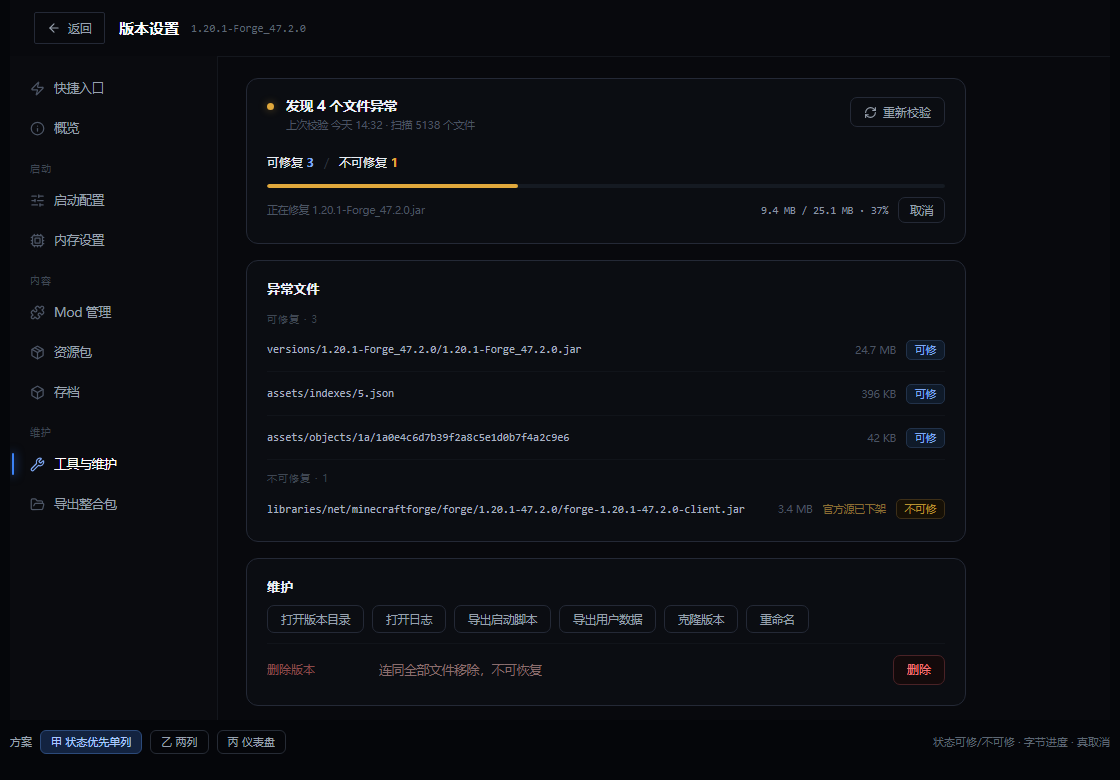
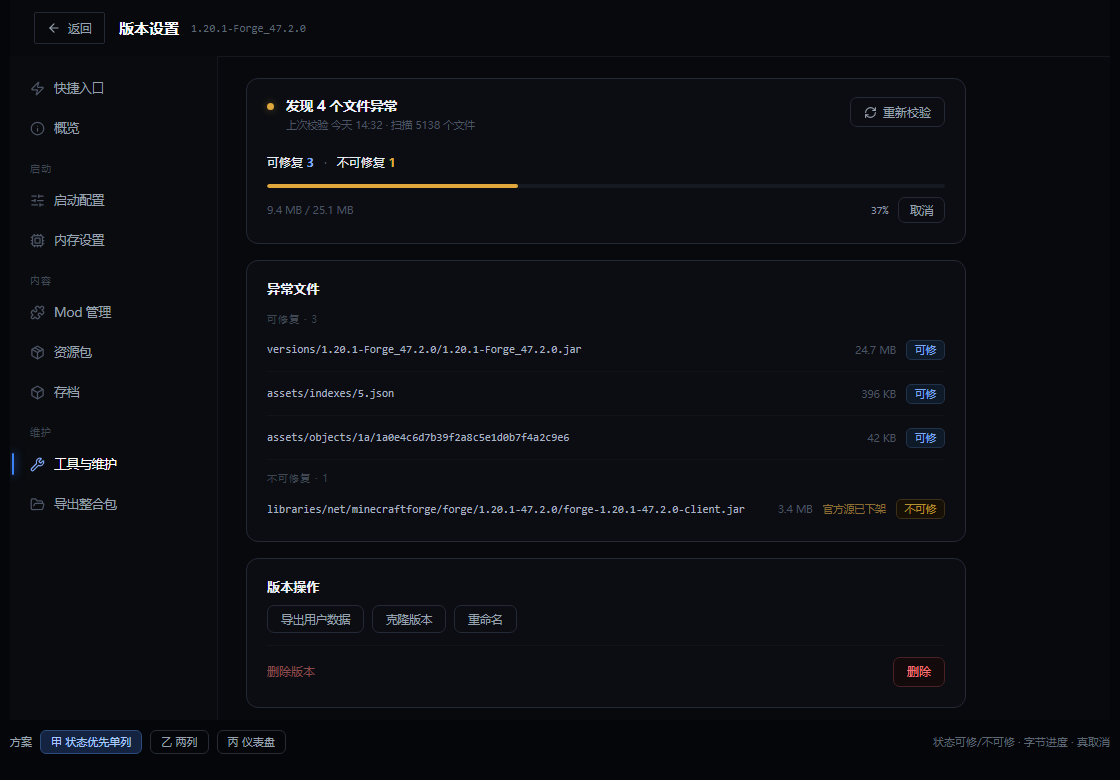
design(vs): 工具与维护页去重（移除与快捷入口重复的目录/日志/启动脚本入口、删冗余说明、表格去来源列）

diff --git a/design/vs-page/tools.html b/design/vs-page/tools.html
@@ -113,6 +113,9 @@ button{font:inherit;color:inherit;background:none;border:0;cursor:pointer;text-a
 .btn.danger{border-color:#4a2226;color:#f07474;background:#130a0b}
 .btn.danger:hover{background:#1d0f11;border-color:#5c2a30}
 .card{margin-bottom:16px}
+/* 乙案两列：卡片随列等高，边框底边对齐 */
+.pb .cols > div{display:flex;flex-direction:column}
+.pb .cols > div > .card{flex:1;margin-bottom:16px}
 .prog{margin:2px 0 10px}
 .pbar{height:4px;border-radius:2px;background:#151a22;overflow:hidden}
 .pbar i{display:block;height:100%;border-radius:2px;background:var(--accent);transition:width .2s}
@@ -206,14 +209,14 @@ button{font:inherit;color:inherit;background:none;border:0;cursor:pointer;text-a
     </div>
     <div class="pb-cap">
       <span class="val">可修复 <b style="color:#7fa9f5">3</b></span>
-      <span class="val" style="color:#2b323d">/</span>
+      <span class="val" style="color:#4b5462">·</span>
       <span class="val">不可修复 <b style="color:#e0a83c">1</b></span>
     </div>
     <div class="prog">
       <div class="pbar amber"><i style="width:37%"></i></div>
       <div class="prog-meta">
-        <span>正在修复 1.20.1-Forge_47.2.0.jar</span>
-        <span class="mono">9.4 MB / 25.1 MB · 37%</span>
+        <span>9.4 MB / 25.1 MB</span>
+        <span class="mono">37%</span>
         <button class="btn mini">取消</button>
       </div>
     </div>
@@ -230,22 +233,19 @@ button{font:inherit;color:inherit;background:none;border:0;cursor:pointer;text-a
   </div>
 
   <div class="card">
-    <div class="ch">维护</div>
-    <div class="pb-cap" style="flex-wrap:wrap;gap:8px;padding:6px 0 10px">
-      <button class="chip">打开版本目录</button>
-      <button class="chip">打开日志</button>
-      <button class="chip">导出启动脚本</button>
+    <div class="ch">版本操作</div>
+    <div class="pb-cap" style="flex-wrap:wrap;gap:8px;padding:6px 0 12px">
       <button class="chip">导出用户数据</button>
       <button class="chip">克隆版本</button>
       <button class="chip">重命名</button>
     </div>
-    <div class="row danger-row" style="border-top:1px solid #11141a"><span class="k">删除版本</span><span class="val">连同全部文件移除，不可恢复</span><button class="btn danger" style="margin-left:auto">删除</button></div>
+    <div class="row danger-row" style="border-top:1px solid #11141a"><span class="k" style="width:auto;flex:1">删除版本</span><button class="btn danger">删除</button></div>
   </div>
 
 </div></div>
 
 <div class="pn pb"><div class="scroll">
-  <div class="cols">
+  <div class="cols" style="align-items:stretch">
     <div>
       <div class="card">
         <div class="shd">
@@ -273,30 +273,24 @@ button{font:inherit;color:inherit;background:none;border:0;cursor:pointer;text-a
         </div>
       </div>
 
-      <div class="card">
-        <div class="ch">异常文件</div>
-        <div class="frow"><span class="fpath">1.20.1-Forge_47.2.0.jar</span><span class="fsize">24.7 MB</span><span class="badge">可修</span></div>
-        <div class="frow"><span class="fpath">assets/indexes/5.json</span><span class="fsize">396 KB</span><span class="badge">可修</span></div>
-        <div class="frow"><span class="fpath">assets/objects/1a/1a0e4c6d…</span><span class="fsize">42 KB</span><span class="badge">可修</span></div>
-        <div class="frow"><span class="fpath">forge-1.20.1-47.2.0-client.jar</span><span class="fsize">3.4 MB</span><span class="badge no">不可修</span></div>
-        <div class="fine" style="padding-bottom:8px">不可修：官方源已下架，需重新安装该版本。</div>
-      </div>
     </div>
 
     <div>
       <div class="card">
         <div class="ch">版本操作</div>
-        <div class="row"><span class="k">目录</span><span class="val mono">versions\1.20.1-Forge…</span><button class="link">打开</button></div>
-        <div class="row"><span class="k">日志</span><span class="val">最近 3 次</span><button class="link">打开</button></div>
-        <div class="row"><span class="k">启动脚本</span><span class="val">.bat</span><button class="link">导出</button></div>
         <div class="row"><span class="k">用户数据</span><span class="val">Mod、配置、存档</span><button class="link">导出</button></div>
-        <div class="row"><span class="k">副本</span><span class="val">克隆 / 重命名</span><button class="link">克隆</button></div>
-      </div>
-      <div class="card">
-        <div class="ch">危险操作</div>
-        <div class="row danger-row"><span class="k">删除版本</span><span class="val">不可恢复</span><button class="btn danger" style="margin-left:auto">删除</button></div>
+        <div class="row"><span class="k">副本</span><button class="link" style="margin-left:auto">克隆</button><button class="link" style="margin-left:4px">重命名</button></div>
+        <div class="row danger-row"><span class="k" style="width:auto;flex:1">删除版本</span><button class="btn danger">删除</button></div>
       </div>
     </div>
+  </div>
+
+  <div class="card" style="max-width:none">
+    <div class="ch">异常文件</div>
+    <div class="frow"><span class="fpath">1.20.1-Forge_47.2.0.jar</span><span class="fsize">24.7 MB</span><span class="badge">可修</span></div>
+    <div class="frow"><span class="fpath">assets/indexes/5.json</span><span class="fsize">396 KB</span><span class="badge">可修</span></div>
+    <div class="frow"><span class="fpath">assets/objects/1a/1a0e4c6d…</span><span class="fsize">42 KB</span><span class="badge">可修</span></div>
+    <div class="frow"><span class="fpath">forge-1.20.1-47.2.0-client.jar</span><span class="fsize">3.4 MB</span><span class="badge no">不可修</span></div>
   </div>
 </div></div>
 
@@ -313,7 +307,7 @@ button{font:inherit;color:inherit;background:none;border:0;cursor:pointer;text-a
     <div class="prog" style="margin:6px 0 2px">
       <div class="pbar amber"><i style="width:37%"></i></div>
       <div class="prog-meta">
-        <span>1.20.1-Forge_47.2.0.jar · 9.4 MB / 25.1 MB</span>
+        <span>9.4 MB / 25.1 MB</span>
         <span class="mono">37%</span>
         <button class="btn mini">取消</button>
       </div>
@@ -323,25 +317,22 @@ button{font:inherit;color:inherit;background:none;border:0;cursor:pointer;text-a
   <div class="card">
     <div class="ch">异常文件</div>
     <table class="tbl">
-      <tr><th style="width:48%">文件</th><th style="width:18%">大小</th><th style="width:16%">来源</th><th style="width:18%">状态</th></tr>
-      <tr><td class="p">versions/…/1.20.1-Forge_47.2.0.jar</td><td class="n">24.7 MB</td><td>官方</td><td><span class="badge">可修</span></td></tr>
-      <tr><td class="p">assets/indexes/5.json</td><td class="n">396 KB</td><td>官方</td><td><span class="badge">可修</span></td></tr>
-      <tr><td class="p">assets/objects/1a/1a0e4c6d…</td><td class="n">42 KB</td><td>官方</td><td><span class="badge">可修</span></td></tr>
-      <tr><td class="p">libraries/net/minecraftforge/…/forge-client.jar</td><td class="n">3.4 MB</td><td>Maven</td><td><span class="badge no">不可修</span></td></tr>
+      <tr><th style="width:56%">文件</th><th style="width:18%">大小</th><th style="width:26%">状态</th></tr>
+      <tr><td class="p">versions/…/1.20.1-Forge_47.2.0.jar</td><td class="n">24.7 MB</td><td><span class="badge">可修</span></td></tr>
+      <tr><td class="p">assets/indexes/5.json</td><td class="n">396 KB</td><td><span class="badge">可修</span></td></tr>
+      <tr><td class="p">assets/objects/1a/1a0e4c6d…</td><td class="n">42 KB</td><td><span class="badge">可修</span></td></tr>
+      <tr><td class="p">libraries/net/minecraftforge/…/forge-client.jar</td><td class="n">3.4 MB</td><td><span class="badge no">不可修</span></td></tr>
     </table>
   </div>
 
   <div class="card">
-    <div class="ch">维护</div>
-    <div class="pb-cap" style="flex-wrap:wrap;gap:8px;padding:4px 0 10px">
-      <button class="chip">打开版本目录</button>
-      <button class="chip">打开日志</button>
-      <button class="chip">导出启动脚本</button>
+    <div class="ch">版本操作</div>
+    <div class="pb-cap" style="flex-wrap:wrap;gap:8px;padding:6px 0 12px">
       <button class="chip">导出用户数据</button>
       <button class="chip">克隆版本</button>
       <button class="chip">重命名</button>
     </div>
-    <div class="row danger-row" style="border-top:1px solid #11141a"><span class="k">删除版本</span><span class="val">连同全部文件移除，不可恢复</span><button class="btn danger" style="margin-left:auto">删除</button></div>
+    <div class="row danger-row" style="border-top:1px solid #11141a"><span class="k" style="width:auto;flex:1">删除版本</span><button class="btn danger">删除</button></div>
   </div>
 
 </div></div>
